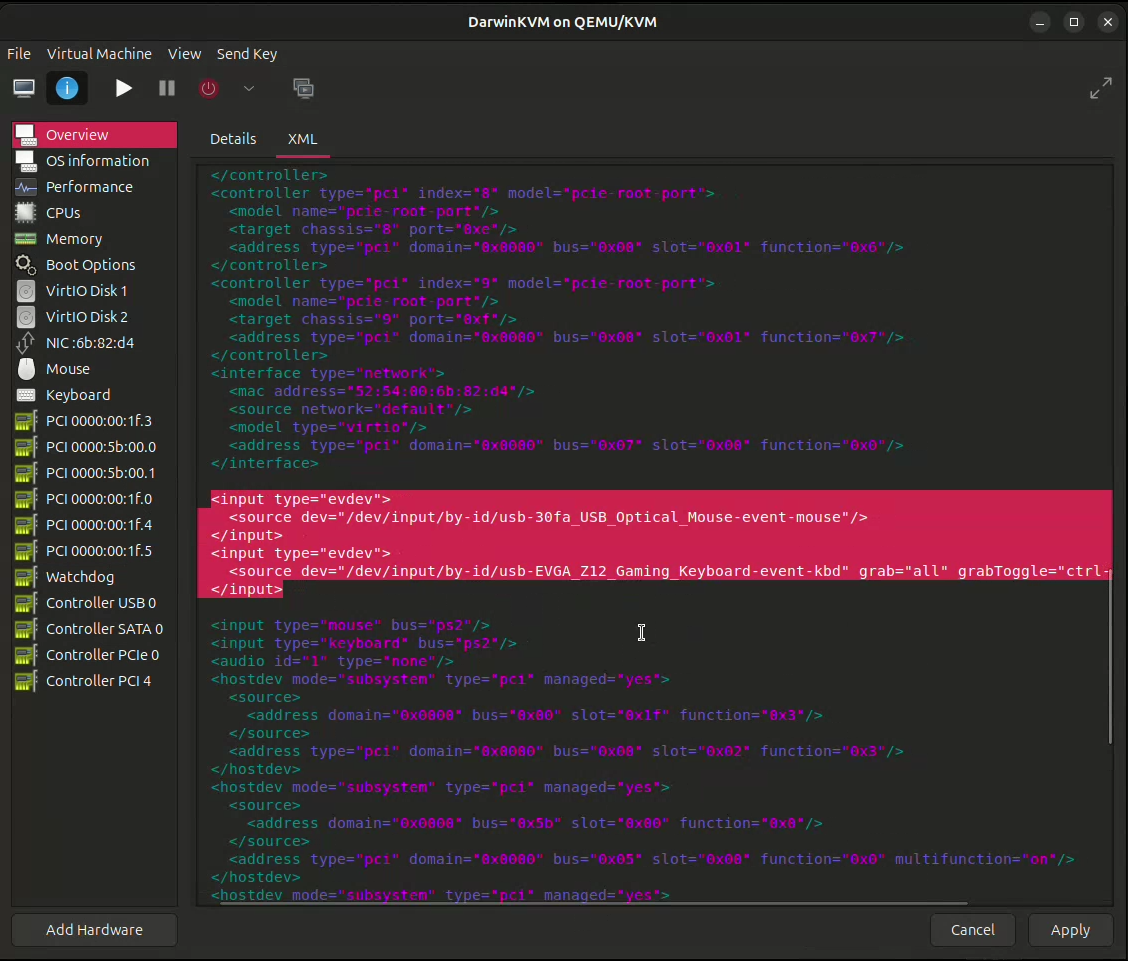
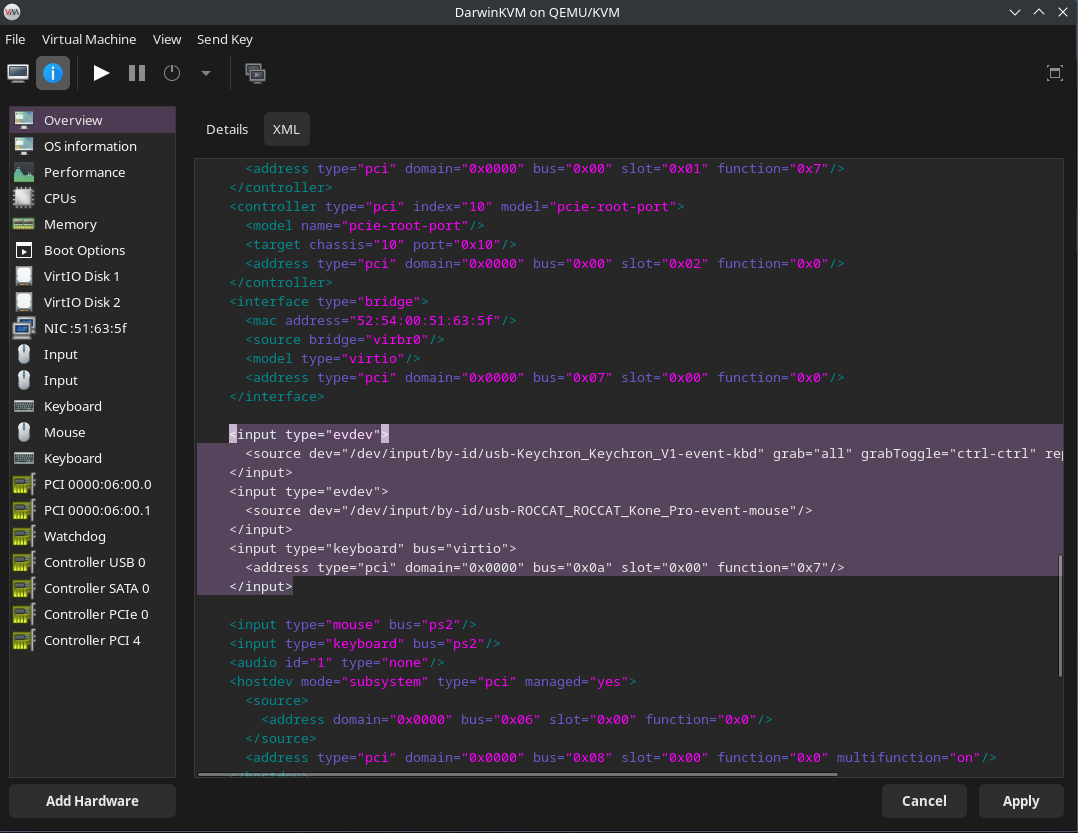
more kb mouse fixes

diff --git a/docs/_writeups/07-EvdevKBM/04-VoodooPS2.md b/docs/_writeups/07-EvdevKBM/04-VoodooPS2.md
@@ -5,10 +5,8 @@ parent: KB/M sharing with Evdev
 nav_order: 4
 ---
 ## Adding VoodooPS2
-## THIS STEP IS REQUIRED FOR VERSIONS **10.14** (Mojave) AND EARLIER
-> This is due to MacOS only adding support for Virtio devices in Catalina and later, this will mean we will have to use the QEMU PS2 keyboard and mouse which requires VoodooPS2 to work.
 
-> For **OS X 10.11** (El Capitan) and lower, you will instead need to download the original PS2 driver by **RehabMan** <a href="https://bitbucket.org/RehabMan/os-x-voodoo-ps2-controller/downloads/">here</a>. Note that these older drivers are built for x64 systems, but you can manually build the x32 versions in Xcode with the source code <a href="https://github.com/RehabMan/OS-X-Voodoo-PS2-Controller/">here</a>.
+> This is only for MacOS 10.14 (Mojave) And Older! For **OS X 10.11** (El Capitan) and lower, you will instead need to download the original PS2 driver by **RehabMan** <a href="https://bitbucket.org/RehabMan/os-x-voodoo-ps2-controller/downloads/">here</a>. Note that these older drivers are built for x64 systems, but you can manually build the x32 versions in Xcode with the source code <a href="https://github.com/RehabMan/OS-X-Voodoo-PS2-Controller/">here</a>.
 {: .headsup }
 Start by downloading the latest release version of ``VoodooPS2`` from <a href="https://github.com/acidanthera/VoodooPS2/releases/">here</a> (for macOS 10.12 Sierra and higher).
 

diff --git a/docs/_writeups/07-EvdevKBM/03-XML.md b/docs/_writeups/07-EvdevKBM/03-XML.md
@@ -55,9 +55,9 @@ Now, **before** the mouse and keyboard XML, copy and paste the following XML to 
 {: .note }
 > Remember to **'Apply'** when you finish!
 
-You should then see two 'Input' devices in the sidebar!
+You should then see two 'Input' devices and one extra 'Keyboard' device in the sidebar!
 
-Sample configuration for the mouse (should be similar for keyboard as well):
+Sample configuration for the keyboard (should be similar for mouse as well):
 
 <p align="center">
     <img src="../../../assets/VManEvdevInputDetails.png"/>
@@ -67,8 +67,9 @@ Sample configuration for the mouse (should be similar for keyboard as well):
     <img src="../../../assets/VManEvdevInputXML.png"/>
 </p>
 
-Now we need to add a mouse. To do this go to "Add Hardware" then "Input" then select "USB Mouse".
+Now we need to add a mouse. To do this go to 'Add Hardware' then 'Input' then select 'USB Mouse'.
 
+If you are having issues once in MacOS with the cursor snapping back to the top left corner, remove and add the USB mouse while the virtual machine is running.
 
 ## You can now continue to the next <a href="../04-VoodooPS2">page</a>.
 
